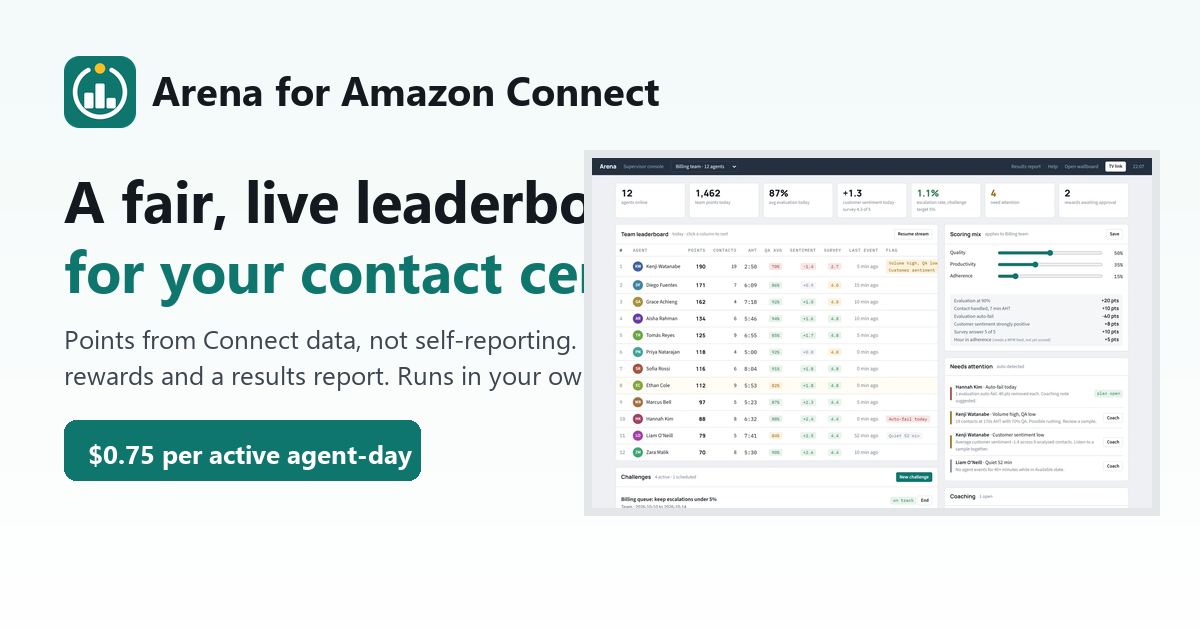
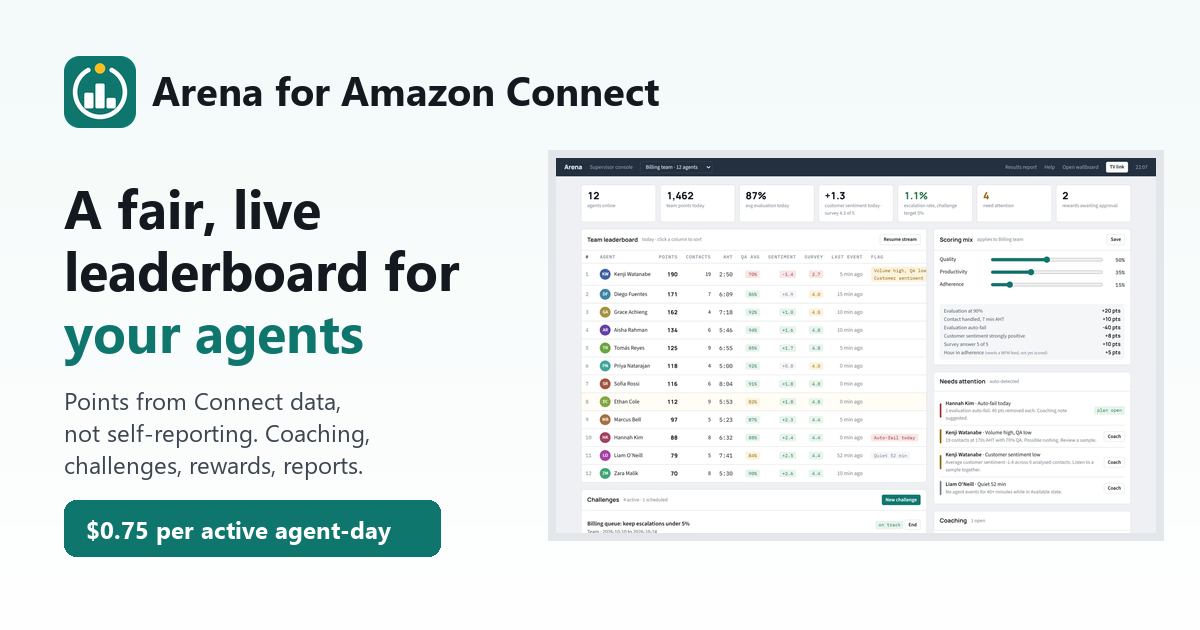
OG image: wrap the headline clear of the screenshot

Changed region(s): [[0.0308, 0.2413, 0.9867, 0.9048]]

diff --git a/web/make-og.py b/web/make-og.py
@@ -24,20 +24,22 @@ def font(size, bold=True):
 logo = Image.open(os.path.join(here, 'logo.png')).convert('RGBA').resize((72, 72), Image.LANCZOS)
 img.paste(logo, (64, 56), logo)
 d.text((152, 62), 'Arena for Amazon Connect', font=font(40), fill='#14191F')
-d.text((64, 160), 'A fair, live leaderboard', font=font(58), fill='#14191F')
-d.text((64, 230), 'for your contact center agents', font=font(58), fill='#0F766E')
-d.text((64, 320), 'Points from Connect data, not self-reporting. Coaching, challenges,', font=font(26, False), fill='#3D4650')
-d.text((64, 356), 'rewards and a results report. Runs in your own AWS account.', font=font(26, False), fill='#3D4650')
-d.rounded_rectangle([64, 420, 420, 480], radius=12, fill='#0F766E')
-d.text((88, 435), '$0.75 per active agent-day', font=font(26), fill='#FFFFFF')
+d.text((64, 170), 'A fair, live', font=font(54), fill='#14191F')
+d.text((64, 232), 'leaderboard for', font=font(54), fill='#14191F')
+d.text((64, 294), 'your agents', font=font(54), fill='#0F766E')
+d.text((64, 384), 'Points from Connect data,', font=font(24, False), fill='#3D4650')
+d.text((64, 416), 'not self-reporting. Coaching,', font=font(24, False), fill='#3D4650')
+d.text((64, 448), 'challenges, rewards, reports.', font=font(24, False), fill='#3D4650')
+d.rounded_rectangle([64, 500, 440, 556], radius=12, fill='#0F766E')
+d.text((86, 513), '$0.75 per active agent-day', font=font(24), fill='#FFFFFF')
 
 shot = Image.open(os.path.join(here, 'img', 'console.webp')).convert('RGB')
-sw = 560
+sw = 600
 sh = int(shot.height * sw / shot.width)
 shot = shot.resize((sw, sh), Image.LANCZOS)
 frame = Image.new('RGB', (sw + 16, min(sh, 470) + 16), '#E3E7EA')
 frame.paste(shot.crop((0, 0, sw, min(sh, 470))), (8, 8))
-img.paste(frame, (W - sw - 16 - 40, 150))
+img.paste(frame, (W - sw - 16 - 36, 150))
 out = os.path.join(here, 'img', 'og.png')
 img.save(out, optimize=True)
 print('wrote', out, os.path.getsize(out) // 1024, 'KB')
